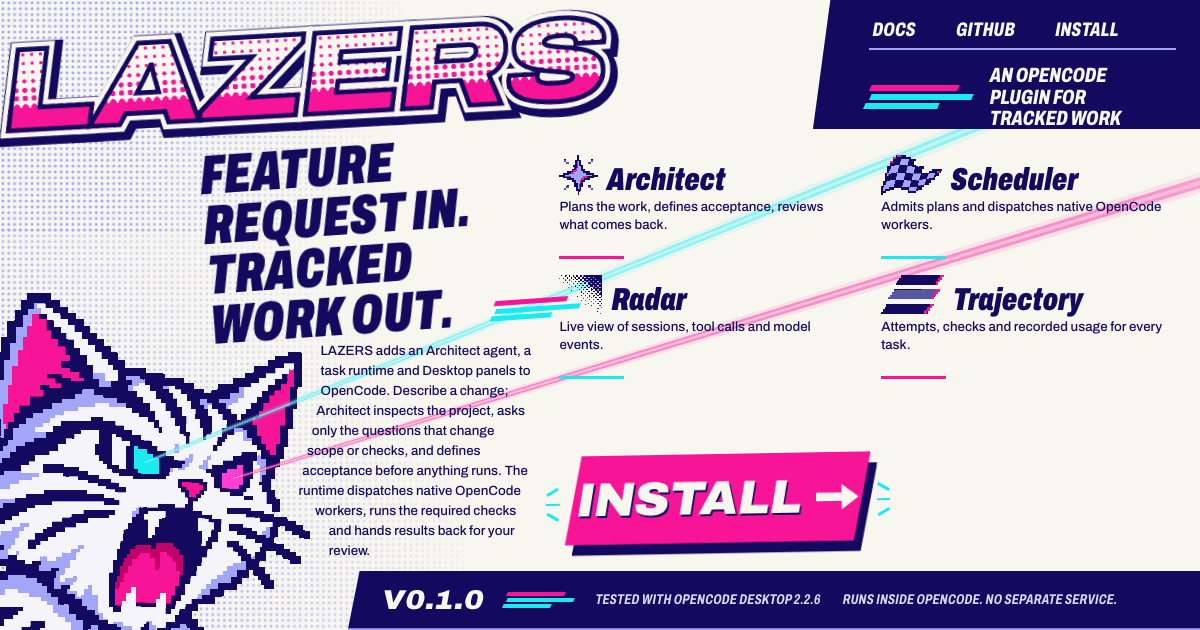
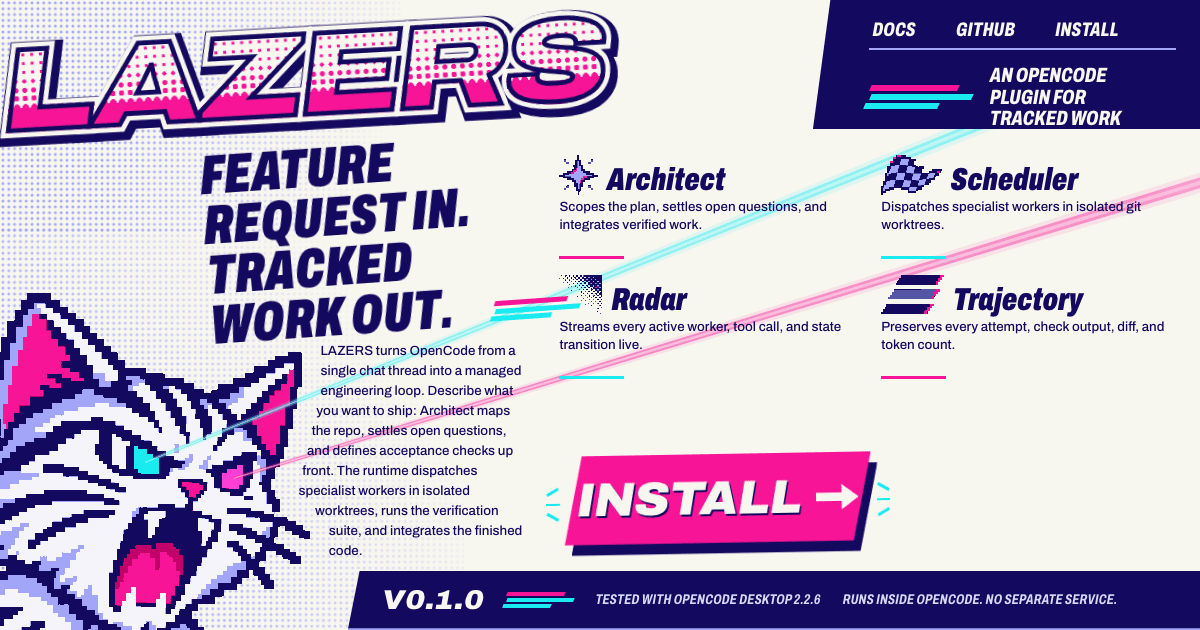
docs(website): rewrite landing page copy around integrated engineering workflow

diff --git a/website/src/Sections.tsx b/website/src/Sections.tsx
@@ -251,26 +251,30 @@ const lp = stylex.create({
 const stations = [
   {
     name: "You",
-    verb: "Request and review",
-    detail: "Describe the behavior and its limits. You review the result and decide what ships.",
+    verb: "Define the goal",
+    detail:
+      "Describe the feature or fix. Answer high-leverage questions when Architect surfaces a real tradeoff.",
     you: true,
   },
   {
     name: "Architect",
-    verb: "Plan and decide",
-    detail: "Reads the repository, settles the questions that matter and defines acceptance.",
+    verb: "Scope and plan",
+    detail:
+      "Maps the codebase, locks in acceptance criteria and file boundaries, and submits an executable task graph.",
     you: false,
   },
   {
     name: "Scheduler",
-    verb: "Admit and schedule",
-    detail: "The runtime admits the plan, resolves workers and dispatches eligible tasks.",
+    verb: "Isolate and dispatch",
+    detail:
+      "Spins up OpenCode worktrees, routes each task to the right specialist persona and model, and tracks dependencies.",
     you: false,
   },
   {
     name: "Worker",
-    verb: "Implement and report",
-    detail: "A native OpenCode session does the task, runs its checks and reports evidence.",
+    verb: "Build and verify",
+    detail:
+      "Writes the code inside its permitted scope, runs formatters, linters, and tests, and submits mechanical proof.",
     you: false,
   },
 ] as const
@@ -292,15 +296,16 @@ export function Loop() {
       <BeamCanvas kit={kit} />
       <div {...stylex.props(s.inner)}>
         <div {...stylex.props(lp.top)}>
-          <Heading id="loop-title">Judgment and state live apart</Heading>
+          <Heading id="loop-title">From prompt to merged code</Heading>
           <div {...stylex.props(lp.topCopy)}>
             <p {...stylex.props(s.lead)}>
-              Architect makes the calls that need context. The runtime owns scheduling and every
-              lifecycle transition.
+              Models handle engineering judgment. A deterministic state machine handles everything
+              else.
             </p>
             <p {...stylex.props(s.body)}>
-              Routine transitions do not call a model, so a retry or a queued task never waits on
-              one.
+              Architect plans, reviews, and integrates. The runtime owns dependency queues, isolated
+              worktrees, verification gates, and retries&mdash;so orchestration never drifts or
+              stalls on a chat turn.
             </p>
           </div>
         </div>
@@ -329,9 +334,10 @@ export function Loop() {
           <span {...stylex.props(lp.backShaft, fx.growX)} />
         </div>
         <p {...stylex.props(lp.backText)}>
-          <strong {...stylex.props(s.strong)}>Results travel back the same way.</strong> The runtime
-          runs the required checks and records evidence. Architect reviews and chooses repair, retry
-          or replanning when new evidence needs judgment. Then the work returns to you.
+          <strong {...stylex.props(s.strong)}>Every candidate comes back with proof.</strong> The
+          runtime executes the verification suite and code-health checks before Architect reviews
+          the diff. When checks pass, Architect integrates the change directly into your
+          branch&mdash;or escalates with a concrete question if it hits a human decision.
         </p>
 
         <div {...stylex.props(lp.observers)}>
@@ -339,14 +345,20 @@ export function Loop() {
             <img src={corner} alt="" {...stylex.props(lp.obsMark)} />
             <span>
               <span {...stylex.props(t.display, lp.obsName)}>Radar</span>
-              <span {...stylex.props(lp.obsText)}> watches every lane while it runs.</span>
+              <span {...stylex.props(lp.obsText)}>
+                {" "}
+                streams every active worker and state transition live.
+              </span>
             </span>
           </a>
           <a href="#trajectory" {...stylex.props(lp.observer, t.inkLink)}>
             <img src={stripesMark} alt="" {...stylex.props(lp.obsMark)} />
             <span>
               <span {...stylex.props(t.display, lp.obsName)}>Trajectory</span>
-              <span {...stylex.props(lp.obsText)}> keeps what each attempt did.</span>
+              <span {...stylex.props(lp.obsText)}>
+                {" "}
+                records every attempt, check receipt, and token count.
+              </span>
             </span>
           </a>
         </div>
@@ -523,7 +535,7 @@ export function Parts() {
       <Cat kit={kit} sx={pt.cat} />
       <BeamCanvas kit={kit} />
       <div {...stylex.props(s.inner)}>
-        <Heading id="parts-title">Four parts, one record</Heading>
+        <Heading id="parts-title">Built for real codebases</Heading>
 
         <div {...stylex.props(pt.grid)}>
           <article
@@ -538,14 +550,13 @@ export function Parts() {
                 Architect
               </h3>
             </div>
-            <p {...stylex.props(pt.deck)}>Asks before it guesses.</p>
+            <p {...stylex.props(pt.deck)}>Clarifies before it codes.</p>
             <span aria-hidden="true" {...stylex.props(pt.rule2, pt.ruleM)} />
             <p {...stylex.props(s.body)}>
-              Select <strong {...stylex.props(s.strong)}>Architect</strong> from OpenCode
-              Desktop&rsquo;s agent list and describe one change with its expected result. It
-              inspects the project and asks a focused question only when a missing choice changes
-              requirements, scope, acceptance or checks. One task covers one coherent change; a plan
-              can split independent work and record its dependencies.
+              Select <strong {...stylex.props(s.strong)}>Architect</strong> in OpenCode Desktop and
+              describe what you want to ship. Before a single file is touched, it indexes your
+              repository, spots ambiguities that change behavior or scope, and decomposes the work
+              into bounded tasks with explicit file write scopes and verification commands.
             </p>
             <blockquote {...stylex.props(pt.quote)}>
               &ldquo;Add a clear empty state to a list. Show &lsquo;No tasks yet.&rsquo; Keep the
@@ -566,17 +577,16 @@ export function Parts() {
                 Scheduler
               </h3>
             </div>
-            <p {...stylex.props(pt.deck)}>Parallel where it is safe. Serial where it must be.</p>
+            <p {...stylex.props(pt.deck)}>Isolated worktrees. Zero lost work.</p>
             <span aria-hidden="true" {...stylex.props(pt.rule2, pt.ruleC)} />
             <p {...stylex.props(s.body)}>
-              Independent tasks can run in OpenCode-managed worktrees. Conflicting write scopes
-              serialize. Verification timeouts come from your configuration, and task and attempt
-              history survive retries.
+              Tasks execute in OpenCode-managed git worktrees with enforced file boundaries. As
+              dependencies clear, the runtime dispatches specialist workers automatically and
+              preserves every attempt across retries and recovery checkpoints.
             </p>
             <p {...stylex.props(s.body)}>
-              Follow it in <strong {...stylex.props(s.strong)}>Tasks</strong>, or run{" "}
-              <Code>/lz-tasks</Code>. The panel offers Start only when a plan can start under the
-              runtime&rsquo;s rules.
+              Track active runs, queued dependencies, and questions needing your input in{" "}
+              <strong {...stylex.props(s.strong)}>Tasks</strong> or via <Code>/lz-tasks</Code>.
             </p>
             <ul aria-label="Task state filters" {...stylex.props(pt.states)}>
               <li {...stylex.props(pt.state)}>Open</li>
@@ -602,22 +612,27 @@ export function Parts() {
                 Radar
               </h3>
             </div>
-            <p {...stylex.props(pt.deck)}>Every session, live.</p>
+            <p {...stylex.props(pt.deck)}>Watch the whole swarm in real time.</p>
             <span aria-hidden="true" {...stylex.props(pt.rule2, pt.ruleC)} />
             <p {...stylex.props(s.body)}>
-              Open it from the session panel menu or run <Code>/lz-radar</Code>. Select a session,
-              call or event to inspect it, then jump to its worker, task or trajectory.
+              Open Radar from the session panel menu or run <Code>/lz-radar</Code> to see every
+              active agent session at a glance&mdash;then click any worker, tool call, or event to
+              jump straight to its task or trajectory.
             </p>
             <dl {...stylex.props(pt.spec)}>
-              <dt {...stylex.props(pt.specTerm)}>Shows</dt>
+              <dt {...stylex.props(pt.specTerm)}>Monitor</dt>
               <dd {...stylex.props(pt.specDef)}>
-                Role, task, model and effort; current tool calls with targets and durations; recent
-                model and tool events
+                Active worker roles, assigned models, in-flight tool calls, targets, and elapsed
+                durations
               </dd>
-              <dt {...stylex.props(pt.specTerm)}>Scope</dt>
-              <dd {...stylex.props(pt.specDef)}>This session, Project, Project · all sessions</dd>
-              <dt {...stylex.props(pt.specTerm)}>Diagnostics</dt>
-              <dd {...stylex.props(pt.specDef)}>The Map and Flow state chart</dd>
+              <dt {...stylex.props(pt.specTerm)}>Map</dt>
+              <dd {...stylex.props(pt.specDef)}>
+                Visual topology of how plans, tasks, and worker sessions connect across your project
+              </dd>
+              <dt {...stylex.props(pt.specTerm)}>Flow</dt>
+              <dd {...stylex.props(pt.specDef)}>
+                Live XState lifecycle view showing where every runner sits and what it is waiting on
+              </dd>
             </dl>
           </article>
 
@@ -633,29 +648,33 @@ export function Parts() {
                 Trajectory
               </h3>
             </div>
-            <p {...stylex.props(pt.deck)}>The record of what was tried.</p>
+            <p {...stylex.props(pt.deck)}>A complete audit trail for every task.</p>
             <span aria-hidden="true" {...stylex.props(pt.rule2, pt.ruleM)} />
             <p {...stylex.props(s.body)}>
-              Run <Code>/lz-trajectory</Code> and choose a task and scope. Select an attempt or a
-              check to inspect its details. Task links in the other LAZERS panels open the matching
-              trajectory, so a failed check in Tasks is one click from its history.
+              Run <Code>/lz-trajectory</Code> or click any task badge to inspect the full flight
+              record of how a change was built, verified, and integrated&mdash;so a failed check or
+              retry is always one click from its root cause.
             </p>
             <ul aria-label="What a trajectory holds" {...stylex.props(pt.tree)}>
               <li {...stylex.props(pt.treeRow)}>
                 <span {...stylex.props(pt.treeKey)}>Task</span>
-                <span>Objective, dependencies and the plan it belongs to</span>
+                <span>Objective, permitted write scope, acceptance rules, and plan lineage</span>
               </li>
               <li {...stylex.props(pt.treeRow, pt.indent1)}>
                 <span {...stylex.props(pt.treeKey)}>Attempt</span>
-                <span>Each try, kept across retries</span>
+                <span>Every worker run preserved across retries and recovery checkpoints</span>
               </li>
               <li {...stylex.props(pt.treeRow, pt.indent2)}>
                 <span {...stylex.props(pt.treeKey)}>Check</span>
-                <span>What ran and what it found</span>
+                <span>
+                  Exact verification commands, pass/fail outputs, and Fallow code-health findings
+                </span>
               </li>
               <li {...stylex.props(pt.treeRow, pt.indent2)}>
                 <span {...stylex.props(pt.treeKey)}>Usage</span>
-                <span>Recorded tokens; missing usage stays unknown</span>
+                <span>
+                  Measured token breakdown with exact model route and market-rate cost estimate
+                </span>
               </li>
             </ul>
           </article>
@@ -756,13 +775,14 @@ export function Checked() {
             <p {...stylex.props(ck.statement)}>A worker report is not acceptance.</p>
             <div {...stylex.props(ck.copy)}>
               <p {...stylex.props(s.lead)}>
-                Acceptance records whether the task meets its checks and decisions. Architect
-                reviews accepted work and handles integration.
+                An agent claiming &ldquo;all tests pass&rdquo; means nothing until the runtime runs
+                the suite and captures the receipt.
               </p>
               <p {...stylex.props(s.body)}>
-                LAZERS does not merge or publish a change because a worker says it is done. OpenCode
-                permissions still govern every tool call and workspace, and you decide when the
-                result goes out.
+                LAZERS gates every task on executable verification commands and Fallow static
+                analysis for dead code, duplication, and complexity. Only after mechanical checks
+                pass does Architect review the diff and integrate it into your branch&mdash;under
+                your normal OpenCode permissions.
               </p>
             </div>
           </div>
@@ -771,30 +791,33 @@ export function Checked() {
               Models
             </h3>
             <p {...stylex.props(s.body, ck.sideBody)}>
-              Run <code {...stylex.props(s.code, ck.code)}>/lz-models</code> to set the provider,
-              model and optional effort for the UI, Systems and Small task / refactoring personas.
+              Use <code {...stylex.props(s.code, ck.code)}>/lz-models</code> to route different
+              providers, models, and reasoning effort levels to each specialist persona&mdash;so
+              heavy reasoning models plan and audit while fast, focused models handle UI or surgical
+              refactors.
             </p>
-            <ul aria-label="Assignment levels" {...stylex.props(ck.levels)}>
+            <ul aria-label="Specialist personas" {...stylex.props(ck.levels)}>
               <li {...stylex.props(ck.level)}>
-                <span {...stylex.props(ck.levelKey)}>Shared default</span>
-                <span>every project</span>
+                <span {...stylex.props(ck.levelKey)}>Architect &amp; Auditor</span>
+                <span>planning, review, code health</span>
               </li>
               <li {...stylex.props(ck.level)}>
-                <span {...stylex.props(ck.levelKey)}>Project override</span>
-                <span>this project</span>
+                <span {...stylex.props(ck.levelKey)}>UI &amp; Systems</span>
+                <span>frontend and deep backend work</span>
               </li>
               <li {...stylex.props(ck.level)}>
-                <span {...stylex.props(ck.levelKey)}>Task override</span>
-                <span>one task</span>
+                <span {...stylex.props(ck.levelKey)}>Small Refactoring</span>
+                <span>fast, focused code edits</span>
               </li>
             </ul>
             <p {...stylex.props(s.body, ck.sideBody)}>
-              Compare shows task histories, measured usage and configured price evidence. Missing
-              usage or prices stay unknown, and a price lookup never starts inference.
+              The Compare view benchmarks your actual task histories, retry counts, measured token
+              usage, and market-price cost estimates so you can tune your model stack with real
+              repository evidence.
             </p>
             <p {...stylex.props(ck.note)}>
-              Local WebGPU inference is optional and off by default. The task workflow uses your
-              selected OpenCode model.
+              Optional local WebGPU inference is built in for instant desktop Q&amp;A, dictation,
+              and read-aloud without touching your cloud model routes.
             </p>
           </aside>
         </div>
@@ -1126,8 +1149,8 @@ export function Footer() {
           </a>
         </nav>
         <p {...stylex.props(ft.note)}>
-          v0.1.0 was tested with OpenCode Desktop 2.2.6. This test does not promise compatibility
-          with other versions.
+          v0.1.0 &middot; Built for OpenCode Desktop 2.2.6 &middot; Runs inside OpenCode with no
+          separate service.
         </p>
       </div>
     </footer>

diff --git a/website/src/Cover.tsx b/website/src/Cover.tsx
@@ -391,35 +391,35 @@ const parts = [
   {
     id: "architect",
     name: "Architect",
-    text: "Plans the work, defines acceptance, reviews what comes back.",
+    text: "Scopes the plan, settles open questions, and integrates verified work.",
     mark: sparkle,
     rule: c.ruleM,
   },
   {
     id: "scheduler",
     name: "Scheduler",
-    text: "Admits plans and dispatches native OpenCode workers.",
+    text: "Dispatches specialist workers in isolated git worktrees.",
     mark: flag,
     rule: c.ruleC,
   },
   {
     id: "radar",
     name: "Radar",
-    text: "Live view of sessions, tool calls and model events.",
+    text: "Streams every active worker, tool call, and state transition live.",
     mark: corner,
     rule: c.ruleC,
   },
   {
     id: "trajectory",
     name: "Trajectory",
-    text: "Attempts, checks and recorded usage for every task.",
+    text: "Preserves every attempt, check output, diff, and token count.",
     mark: stripesMark,
     rule: c.ruleM,
   },
 ] as const
 
 const LEDE =
-  "LAZERS adds an Architect agent, a task runtime and Desktop panels to OpenCode. Describe a change; Architect inspects the project, asks only the questions that change scope or checks, and defines acceptance before anything runs. The runtime dispatches native OpenCode workers, runs the required checks and hands results back for your review."
+  "LAZERS turns OpenCode from a single chat thread into a managed engineering loop. Describe what you want to ship: Architect maps the repo, settles open questions, and defines acceptance checks up front. The runtime dispatches specialist workers in isolated worktrees, runs the verification suite, and integrates the finished code."
 
 export function Cover() {
   const kit = useBeamKit("cover", 3, 16)

diff --git a/website/index.html b/website/index.html
@@ -6,7 +6,7 @@
     <title>LAZERS: turn a feature request into tracked work in OpenCode</title>
     <meta
       name="description"
-      content="LAZERS adds an Architect agent, a task runtime and Desktop panels to OpenCode. Feature request in, tracked work out."
+      content="LAZERS turns OpenCode from a single chat thread into a managed engineering loop: a lead Architect, an isolated worktree runtime, mechanical verification gates, and live telemetry panels."
     />
     <link rel="canonical" href="https://thejustinwalsh.github.io/opencode-lazers/" />
     <meta name="theme-color" content="#13095E" />
@@ -18,7 +18,7 @@
     />
     <meta
       property="og:description"
-      content="An Architect agent, a task runtime and Desktop panels for OpenCode. Feature request in, tracked work out."
+      content="A lead Architect, an isolated worktree runtime, and live telemetry panels for OpenCode. Feature request in, tracked work out."
     />
     <meta property="og:url" content="https://thejustinwalsh.github.io/opencode-lazers/" />
     <meta property="og:image" content="https://thejustinwalsh.github.io/opencode-lazers/og.png" />
@@ -36,7 +36,7 @@
     />
     <meta
       name="twitter:description"
-      content="An Architect agent, a task runtime and Desktop panels for OpenCode. Feature request in, tracked work out."
+      content="A lead Architect, an isolated worktree runtime, and live telemetry panels for OpenCode. Feature request in, tracked work out."
     />
     <meta name="twitter:image" content="https://thejustinwalsh.github.io/opencode-lazers/og.png" />
     <meta
